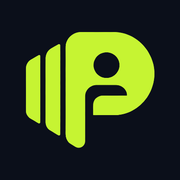
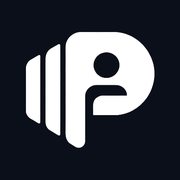
checkpoint before testing_agent_full_stack_o55
Emergent-Commit-Key: 985c851e07aa901eabe8695fdc98941710b8026b3d023b5245e6e1ddddd95b8a

Changed region(s): [[0.1389, 0.1667, 0.8611, 0.8333]]

diff --git a/frontend/src/pages/Landing.jsx b/frontend/src/pages/Landing.jsx
@@ -10,7 +10,7 @@ import {
 
 
 const features = [
-  { icon: Database, title: "Unified Client Memory", desc: "Consolidate notes, CRM records, past meetings and open tasks into one living profile per client." },
+  { icon: Database, title: "Unified Client Memory", desc: "Consolidate notes, emails, past calls and open tasks into one living profile per client." },
   { icon: ShieldCheck, title: "Source-Verified Intelligence", desc: "Every factual claim links to its source. Facts, inferences and missing info are clearly separated." },
   { icon: ListChecks, title: "Forgotten-Commitment Detector", desc: "Surfaces promises you made, overdue tasks and decisions still waiting — with their origin." },
   { icon: Target, title: "Adaptive Talking Points", desc: "Three prioritised talking points and three questions, grounded in real context — never filler." },
@@ -28,9 +28,9 @@ const tabContent = {
 };
 
 const faqs = [
-  { q: "How does PreMeet avoid making things up?", a: "Every factual claim must reference a real source — a note, CRM field, calendar event or recorded commitment. When information isn't available, the brief says so explicitly instead of inventing it." },
-  { q: "Do I have to replace my CRM or calendar?", a: "No. PreMeet brings context together from the tools you already use. Calendar and CRM connections use the official OAuth flow and request only read permissions." },
-  { q: "Is my client data private?", a: "Your data is isolated per account. We never use your meeting notes or CRM records to train models, and you control retention and deletion." },
+  { q: "How does PreMeet avoid making things up?", a: "Every factual claim must reference a real source — a note, email, calendar event or recorded commitment. When information isn't available, the brief says so explicitly instead of inventing it." },
+  { q: "Do I have to replace my calendar or inbox?", a: "No. PreMeet brings context together from the tools you already use. Google Calendar and Gmail connect through Google's official sign-in and request only read permissions." },
+  { q: "Is my client data private?", a: "Your data is isolated per account. We never use your meeting notes or emails to train models, and you control retention and deletion." },
   { q: "What happens when I hit my monthly brief limit?", a: "We stop and show a clear upgrade prompt. You're never silently charged or pushed over your plan's allowance." },
 ];
 
@@ -85,13 +85,13 @@ export default function Landing() {
               <span className="h-1.5 w-1.5 rounded-full bg-signal bc-blink" /> Prep · Call · Notes
             </span>
             <h1 className="bc-rise bc-d1 mt-6 text-5xl sm:text-6xl lg:text-7xl font-bold leading-[0.98]">
-              Know the room<br />before you <span className="relative inline-block"><span className="relative z-10">walk in.</span><span className="absolute left-0 right-0 bottom-1 h-4 bg-signal -z-0" /></span>
+              Know the room<br />before you <span className="relative inline-block"><span className="relative z-10">walk in.</span><span className="absolute left-0 right-0 bottom-1 h-1.5 bg-ink -z-0" /></span>
             </h1>
             <p className="bc-rise bc-d2 mt-6 text-lg text-muted-foreground leading-relaxed max-w-xl">
               PreMeet reads your calendar, inbox and notes, hands you a one-page brief with sources, runs the call, and writes up what was decided.
             </p>
             <div className="bc-rise bc-d3 mt-8 flex flex-col sm:flex-row gap-3">
-              <Link to="/register" data-testid="hero-cta-button" className="h-12 px-6 rounded-lg bg-ink text-white font-semibold flex items-center justify-center gap-2 shadow-[4px_4px_0_0_#4F46E5] hover:shadow-[6px_6px_0_0_#4F46E5] hover:-translate-x-0.5 hover:-translate-y-0.5 transition-[transform,box-shadow] active:translate-x-0 active:translate-y-0 active:shadow-none">
+              <Link to="/register" data-testid="hero-cta-button" className="h-12 px-6 rounded-lg bg-ink text-white font-semibold flex items-center justify-center gap-2 shadow-[4px_4px_0_0_#0B0F1A] hover:shadow-[6px_6px_0_0_#0B0F1A] hover:-translate-x-0.5 hover:-translate-y-0.5 transition-[transform,box-shadow] active:translate-x-0 active:translate-y-0 active:shadow-none">
                 Start free <ArrowRight className="h-4 w-4" />
               </Link>
               <a href="#demo" className="h-12 px-6 rounded-lg border-2 border-ink font-semibold flex items-center justify-center hover:bg-ink hover:text-white transition-colors">
@@ -185,19 +185,19 @@ export default function Landing() {
           <div>
             <span className="font-mono-label text-xs text-signal">The one-page brief</span>
             <h2 className="mt-3 text-3xl sm:text-4xl font-bold tracking-tight">Everything you need, nothing you don't</h2>
-            <p className="mt-4 text-slate-300 text-lg leading-relaxed">
+            <p className="mt-4 text-white/70 text-lg leading-relaxed">
               Scannable sections, prioritised talking points, and a citation footer so you can inspect the source of every claim.
             </p>
             <div className="mt-6 flex flex-wrap gap-2">
               {tabs.map((t) => (
                 <button key={t} onClick={() => setActiveTab(t)} data-testid={`demo-tab-${t.replace(/\s+/g, "-").toLowerCase()}`}
-                  className={`px-4 py-2 rounded-lg text-sm font-medium transition-all ${activeTab === t ? "bg-signal text-ink" : "bg-white/5 text-slate-300 hover:bg-white/10"}`}>
+                  className={`px-4 py-2 rounded-lg text-sm font-medium transition-all ${activeTab === t ? "bg-signal text-ink" : "bg-white/5 text-white/70 hover:bg-white/10"}`}>
                   {t}
                 </button>
               ))}
             </div>
           </div>
-          <div className="relative rounded-2xl bg-white text-foreground p-6 shadow-[8px_8px_0_0_#4F46E5]">
+          <div className="relative rounded-2xl bg-white text-foreground p-6 shadow-[8px_8px_0_0_#0B0F1A]">
             <div className="flex items-center justify-between border-b border-border pb-4">
               <div>
                 <p className="font-mono-label text-[10px] text-muted-foreground">Project review · Today 2:00 PM</p>
@@ -223,9 +223,9 @@ export default function Landing() {
       <section className="max-w-6xl mx-auto px-5 py-20 text-center">
         <span className="font-mono-label text-xs text-primary">Brings your stack together</span>
         <h2 className="mt-3 text-3xl font-bold tracking-tight">Works with the tools you already use</h2>
-        <p className="mt-4 text-muted-foreground max-w-xl mx-auto">Connect calendars and CRMs through official, read-only authorization. No need to replace anything.</p>
+        <p className="mt-4 text-muted-foreground max-w-xl mx-auto">Connect Google Calendar and Gmail through official, read-only authorization. No need to replace anything.</p>
         <div className="mt-10 flex flex-wrap justify-center gap-3">
-          {["Google Calendar", "Gmail", "Built-in video calls", "Manual notes & uploads", "Outlook (soon)", "HubSpot (soon)", "Salesforce (soon)"].map((n) => (
+          {["Google Calendar", "Gmail", "Built-in video calls", "Manual notes & uploads"].map((n) => (
             <span key={n} className="px-4 py-2.5 rounded-lg border border-border bg-card text-sm font-medium bc-lift">{n}</span>
           ))}
         </div>
@@ -242,7 +242,7 @@ export default function Landing() {
           <div className="mt-12 grid md:grid-cols-3 gap-5 max-w-4xl mx-auto">
             {plans.map((p) => (
               <div key={p.id} data-testid={`pricing-card-${p.id}`}
-                className={`p-6 rounded-2xl border-2 bg-card flex flex-col ${p.id === "entry" ? "border-ink shadow-[6px_6px_0_0_#4F46E5]" : "border-border bc-lift"}`}>
+                className={`p-6 rounded-2xl border-2 bg-card flex flex-col ${p.id === "entry" ? "border-ink shadow-[6px_6px_0_0_#0B0F1A]" : "border-border bc-lift"}`}>
                 <div className="flex items-center justify-between min-h-6">
                   <h3 className="font-bold text-lg">{p.name}</h3>
                   {p.id === "entry" && <span className="px-2.5 py-1 rounded-full bg-primary text-white text-xs font-semibold">Most popular</span>}
@@ -304,7 +304,7 @@ export default function Landing() {
           <div className="bc-grid-bg absolute inset-0 opacity-[0.06]" />
           <Quote className="h-8 w-8 text-signal mx-auto" />
           <h2 className="relative mt-4 text-3xl sm:text-4xl font-extrabold tracking-tight">Never walk in unprepared again.</h2>
-          <p className="relative mt-4 text-slate-300 max-w-xl mx-auto">Start free and generate your first source-verified brief in minutes.</p>
+          <p className="relative mt-4 text-white/70 max-w-xl mx-auto">Start free and generate your first source-verified brief in minutes.</p>
           <Link to="/register" data-testid="footer-cta-button" className="relative mt-8 inline-flex h-12 px-8 rounded-lg bg-signal text-ink font-bold items-center gap-2 hover:bg-primary/90 transition-all active:scale-[0.98]">
             Start free <ArrowRight className="h-4 w-4" />
           </Link>

diff --git a/frontend/src/index.css b/frontend/src/index.css
@@ -11,7 +11,7 @@
   --font-mono: 'JetBrains Mono', 'IBM Plex Mono', monospace;
   --font-display: 'Space Grotesk', 'Plus Jakarta Sans', sans-serif;
   --color-ink: #0B0F1A;
-  --color-signal: #C6F432;
+  --color-signal: #FFFFFF;
 
   --radius-lg: var(--radius);
   --radius-md: calc(var(--radius) - 2px);
@@ -80,20 +80,20 @@
     --card-foreground: 224 45% 7%;
     --popover: 0 0% 100%;
     --popover-foreground: 224 45% 7%;
-    --primary: 243 80% 58%;
+    --primary: 224 45% 7%;
     --primary-foreground: 0 0% 100%;
     --secondary: 40 12% 93%;
     --secondary-foreground: 224 45% 7%;
     --muted: 40 12% 93%;
     --muted-foreground: 222 12% 40%;
-    --accent: 243 90% 96%;
-    --accent-foreground: 243 70% 45%;
+    --accent: 40 10% 92%;
+    --accent-foreground: 224 45% 7%;
     --destructive: 0 78% 52%;
     --destructive-foreground: 0 0% 100%;
     --border: 40 8% 86%;
     --input: 40 8% 86%;
-    --ring: 243 80% 58%;
-    --chart-1: 243 80% 58%;
+    --ring: 224 45% 7%;
+    --chart-1: 224 45% 7%;
     --chart-2: 160 84% 39%;
     --chart-3: 32 95% 44%;
     --chart-4: 199 89% 48%;
@@ -116,7 +116,7 @@
   [data-debug-wrapper="true"] { display: contents !important; }
 }
 
-::selection { background: #C6F432; color: #0B0F1A; }
+::selection { background: #0B0F1A; color: #FFFFFF; }
 
 @layer base {
   h1, h2, h3, .font-display { font-family: var(--font-display); letter-spacing: -0.02em; }
@@ -126,6 +126,8 @@
 @keyframes bc-marquee { from { transform: translateX(0); } to { transform: translateX(-50%); } }
 @keyframes bc-blink { 0%, 100% { opacity: 1; } 50% { opacity: 0.25; } }
 @keyframes bc-type { from { width: 0; } to { width: 100%; } }
+.bc-fade { animation: bc-fade 0.35s ease-out both; }
+@keyframes bc-fade { from { opacity: 0; } to { opacity: 1; } }
 .bc-rise { animation: bc-rise 0.55s cubic-bezier(0.2, 0.8, 0.2, 1) both; }
 .bc-d1 { animation-delay: 80ms; } .bc-d2 { animation-delay: 160ms; } .bc-d3 { animation-delay: 240ms; }
 .bc-d4 { animation-delay: 320ms; } .bc-d5 { animation-delay: 400ms; } .bc-d6 { animation-delay: 480ms; }

diff --git a/frontend/src/pages/Integrations.jsx b/frontend/src/pages/Integrations.jsx
@@ -13,8 +13,7 @@ const RESULT = {
 };
 
 function IntegrationCard({ r, busy, onConnect, onDisconnect, onSync }) {
-  const live = !r.requires_oauth || GOOGLE.includes(r.provider);
-  const status = r.status === "connected" ? "connected" : live ? "not_connected" : "setup_required";
+  const status = r.status === "connected" ? "connected" : "not_connected";
   const btn = "h-9 px-4 rounded-lg text-sm font-semibold flex items-center gap-2 transition-colors disabled:opacity-60";
   return (
     <Card className="p-5 bc-lift" data-testid={`integration-${r.provider}`}>
@@ -22,7 +21,7 @@ function IntegrationCard({ r, busy, onConnect, onDisconnect, onSync }) {
         <div>
           <p className="font-display font-bold">{r.name}</p>
           <p className="text-xs text-muted-foreground mt-0.5">
-            {r.account ? r.account : live ? (r.requires_oauth ? "Google sign-in · read-only" : "Available now") : "Coming soon"}
+            {r.account ? r.account : r.requires_oauth ? "Google sign-in · read-only" : "Available now"}
           </p>
           {r.last_synced_at && <p className="text-xs text-muted-foreground mt-0.5" data-testid={`last-synced-${r.provider}`}>Synced {formatDateTime(r.last_synced_at)}</p>}
           {r.error && <p className="text-xs text-destructive mt-1">{r.error}</p>}
@@ -41,12 +40,10 @@ function IntegrationCard({ r, busy, onConnect, onDisconnect, onSync }) {
               Disconnect
             </button>
           </>
-        ) : live ? (
+        ) : (
           <button onClick={onConnect} disabled={busy} data-testid={`connect-${r.provider}`} className={`${btn} bg-primary text-primary-foreground hover:bg-primary/90`}>
             {busy && <Loader2 className="h-4 w-4 animate-spin" />} Connect
           </button>
-        ) : (
-          <span className="text-xs text-muted-foreground">Needs a developer app from this provider. Ask us to switch it on.</span>
         )}
       </div>
     </Card>

diff --git a/frontend/src/pages/Meetings.jsx b/frontend/src/pages/Meetings.jsx
@@ -1,3 +1,4 @@
+import { createPortal } from "react-dom";
 import { useEffect, useState } from "react";
 import { Link } from "react-router-dom";
 import { api, formatApiErrorDetail } from "../lib/api";
@@ -80,13 +81,13 @@ export default function Meetings() {
         </div>
       )}
 
-      {showModal && (
+      {showModal && createPortal(
         <div className="fixed inset-0 z-50 flex items-center justify-center p-4" data-testid="add-meeting-modal">
           <div className="fixed inset-0 bg-black/40" onClick={() => setShowModal(false)} />
-          <Card className="relative w-full max-w-lg p-6 max-h-[90vh] overflow-y-auto">
+          <Card className="relative w-full max-w-lg p-6 max-h-[90vh] overflow-y-auto overscroll-contain">
             <div className="flex items-center justify-between mb-5">
               <h2 className="font-bold text-lg">Add a meeting</h2>
-              <button onClick={() => setShowModal(false)} className="p-1 text-muted-foreground hover:text-foreground"><X className="h-5 w-5" /></button>
+              <button onClick={() => setShowModal(false)} data-testid="add-meeting-close" className="p-1 text-muted-foreground hover:text-foreground"><X className="h-5 w-5" /></button>
             </div>
             <form onSubmit={create} className="space-y-4">
               <Field label="Title">
@@ -127,7 +128,8 @@ export default function Meetings() {
               </button>
             </form>
           </Card>
-        </div>
+        </div>,
+        document.body,
       )}
       <style>{`.input{margin-top:.375rem;width:100%;height:2.75rem;padding:0 .875rem;border-radius:.5rem;border:1px solid hsl(var(--input));background:hsl(var(--card));font-size:.875rem}.input:focus{outline:none;border-color:hsl(var(--primary));box-shadow:0 0 0 2px hsl(var(--ring)/.3)}`}</style>
     </div>

diff --git a/frontend/src/pages/Onboarding.jsx b/frontend/src/pages/Onboarding.jsx
@@ -41,10 +41,10 @@ export default function Onboarding() {
     setLoading(true);
     try {
       await api.post("/onboarding", {
-        profession, tone, detail_level: detail, default_objective: objective, load_demo_data: true,
+        profession, tone, detail_level: detail, default_objective: objective, load_demo_data: false,
       });
       await refreshUser();
-      toast.success("You're all set! We loaded demo data so you can explore.");
+      toast.success("You're all set. Add your first meeting or import your calendar.");
       navigate("/app");
     } catch (err) {
       toast.error(formatApiErrorDetail(err.response?.data?.detail));
@@ -133,10 +133,10 @@ export default function Onboarding() {
             <div data-testid="onboarding-step-finish">
               <span className="font-mono-label text-xs text-primary">Step 3 of 3</span>
               <h1 className="mt-2 text-3xl font-bold tracking-tight">Ready to generate your first brief</h1>
-              <p className="mt-2 text-muted-foreground">We'll load a demo workspace with sample meetings, notes and commitments so you can see a real brief immediately.</p>
+              <p className="mt-2 text-muted-foreground">Your workspace starts empty. Add a meeting yourself or connect Google Calendar to import your real schedule.</p>
               <div className="mt-8 rounded-xl border border-border bg-card p-6 space-y-4">
                 {[
-                  "Connect Google Calendar & your CRM from the Integrations page",
+                  "Connect Google Calendar and Gmail from the Integrations page",
                   "Open an upcoming meeting and click Generate Brief",
                   "Inspect sources, edit sections, and export to PDF",
                 ].map((t, i) => (

diff --git a/frontend/src/pages/ClientMemory.jsx b/frontend/src/pages/ClientMemory.jsx
@@ -1,3 +1,4 @@
+import { createPortal } from "react-dom";
 import { useEffect, useState, useMemo } from "react";
 import { api, formatApiErrorDetail } from "../lib/api";
 import { Card, PageHeader } from "../components/ui-helpers";
@@ -219,14 +220,15 @@ function Stat({ label, value }) {
   return <div className="p-3 rounded-lg bg-secondary/40 text-center"><p className="text-2xl font-extrabold">{value}</p><p className="text-xs text-muted-foreground">{label}</p></div>;
 }
 function Modal({ title, onClose, children }) {
-  return (
-    <div className="fixed inset-0 z-50 flex items-center justify-center p-4">
+  return createPortal(
+    <div className="fixed inset-0 z-50 flex items-center justify-center p-4" data-testid="client-memory-modal">
       <div className="fixed inset-0 bg-black/40" onClick={onClose} />
-      <Card className="relative w-full max-w-lg p-6 max-h-[90vh] overflow-y-auto">
-        <div className="flex items-center justify-between mb-5"><h2 className="font-bold text-lg">{title}</h2><button onClick={onClose} className="p-1 text-muted-foreground hover:text-foreground"><X className="h-5 w-5" /></button></div>
+      <Card className="relative w-full max-w-lg p-6 max-h-[90vh] overflow-y-auto overscroll-contain">
+        <div className="flex items-center justify-between mb-5"><h2 className="font-bold text-lg">{title}</h2><button onClick={onClose} data-testid="client-memory-modal-close" className="p-1 text-muted-foreground hover:text-foreground"><X className="h-5 w-5" /></button></div>
         {children}
       </Card>
-    </div>
+    </div>,
+    document.body,
   );
 }
 function Inp({ label, value, onChange, required, testid }) {

diff --git a/frontend/src/components/layout/DashboardLayout.jsx b/frontend/src/components/layout/DashboardLayout.jsx
@@ -39,7 +39,7 @@ export default function DashboardLayout() {
             onClick={() => setOpen(false)}
             className={({ isActive }) =>
               `flex items-center gap-3 px-3 py-2.5 rounded-lg text-sm font-medium transition-all duration-200 ${
-                isActive ? "bg-white text-ink shadow-[3px_3px_0_0_#C6F432]" : "text-white/60 hover:bg-white/10 hover:text-white"
+                isActive ? "bg-white text-ink shadow-none" : "text-white/60 hover:bg-white/10 hover:text-white"
               }`
             }
           >
@@ -54,7 +54,7 @@ export default function DashboardLayout() {
             onClick={() => setOpen(false)}
             className={({ isActive }) =>
               `flex items-center gap-3 px-3 py-2.5 rounded-lg text-sm font-medium transition-all duration-200 ${
-                isActive ? "bg-white text-ink shadow-[3px_3px_0_0_#C6F432]" : "text-white/60 hover:bg-white/10 hover:text-white"
+                isActive ? "bg-white text-ink shadow-none" : "text-white/60 hover:bg-white/10 hover:text-white"
               }`
             }
           >
@@ -107,7 +107,7 @@ export default function DashboardLayout() {
           </button>
         </header>
         <main className="flex-1 p-5 sm:p-8 max-w-7xl w-full mx-auto">
-          <div key={location.pathname} className="bc-rise"><Outlet /></div>
+          <div key={location.pathname} className="bc-fade"><Outlet /></div>
         </main>
       </div>
     </div>

diff --git a/frontend/src/pages/Login.jsx b/frontend/src/pages/Login.jsx
@@ -36,10 +36,10 @@ export default function Login() {
           <h2 className="text-4xl font-extrabold tracking-tight leading-tight">
             Walk into every meeting prepared.
           </h2>
-          <p className="text-slate-300 text-lg leading-relaxed max-w-md">
-            One-page briefs built from your notes, CRM and calendar — with every fact linked to its source.
+          <p className="text-white/70 text-lg leading-relaxed max-w-md">
+            One-page briefs built from your notes, inbox and calendar — with every fact linked to its source.
           </p>
-          <ul className="space-y-3 text-slate-300">
+          <ul className="space-y-3 text-white/70">
             {["Source-verified intelligence", "Forgotten-commitment detector", "Profession-specific templates"].map((t) => (
               <li key={t} className="flex items-center gap-3">
                 <CheckCircle2 className="h-5 w-5 text-primary" /> {t}
@@ -94,9 +94,6 @@ export default function Login() {
               Create one
             </Link>
           </p>
-          <div className="mt-6 p-3 rounded-lg bg-secondary text-xs text-muted-foreground">
-            <span className="font-mono-label text-[10px]">Demo admin</span> — admin@briefcraft.ai / Admin@12345
-          </div>
         </div>
       </div>
     </div>

diff --git a/frontend/src/pages/Register.jsx b/frontend/src/pages/Register.jsx
@@ -37,10 +37,10 @@ export default function Register() {
           <h2 className="text-4xl font-extrabold tracking-tight leading-tight">
             Spend less time searching.<br />More time in conversation.
           </h2>
-          <p className="text-slate-300 text-lg leading-relaxed max-w-md">
+          <p className="text-white/70 text-lg leading-relaxed max-w-md">
             Start free with 3 briefs. No credit card. Turn scattered client context into a trustworthy one-page brief.
           </p>
-          <ul className="space-y-3 text-slate-300">
+          <ul className="space-y-3 text-white/70">
             {["Free starter plan", "Set up in under 2 minutes", "Your data stays isolated and private"].map((t) => (
               <li key={t} className="flex items-center gap-3">
                 <CheckCircle2 className="h-5 w-5 text-primary" /> {t}

diff --git a/backend/seed.py b/backend/seed.py
@@ -30,9 +30,6 @@ DEFAULT_PLANS = [
 
 INTEGRATION_CATALOG = [
     {"provider": "google_calendar", "name": "Google Calendar", "category": "calendar", "requires_oauth": True},
-    {"provider": "outlook_calendar", "name": "Outlook Calendar", "category": "calendar", "requires_oauth": True},
-    {"provider": "hubspot", "name": "HubSpot", "category": "crm", "requires_oauth": True},
-    {"provider": "salesforce", "name": "Salesforce", "category": "crm", "requires_oauth": True},
     {"provider": "manual_notes", "name": "Manual Notes & Uploads", "category": "notes", "requires_oauth": False},
     {"provider": "gmail", "name": "Gmail", "category": "email", "requires_oauth": True},
 ]
@@ -99,6 +96,20 @@ async def ensure_preferences(user_id: str, profession: str = "consultant"):
             "auto_generate": False,
             "updated_at": now_iso(),
         })
+
+
+UNAVAILABLE_PROVIDERS = ["outlook_calendar", "hubspot", "salesforce"]
+
+
+async def purge_demo_and_unavailable():
+    """Idempotent cleanup: remove sample data and integrations that aren't set up."""
+    demo_ids = [m["id"] for m in await db.meetings.find({"is_demo": True}, {"id": 1}).to_list(100000)]
+    if demo_ids:
+        await db.briefs.delete_many({"meeting_id": {"$in": demo_ids}})
+        await db.meeting_notes.delete_many({"meeting_id": {"$in": demo_ids}})
+    for coll in ("meetings", "contacts", "companies", "notes", "commitments"):
+        await db[coll].delete_many({"is_demo": True})
+    await db.integrations.delete_many({"provider": {"$in": UNAVAILABLE_PROVIDERS}})
 
 
 async def seed_demo_data(user_id: str):

diff --git a/backend/server.py b/backend/server.py
@@ -243,8 +243,6 @@ async def complete_onboarding(payload: OnboardingInput, user=Depends(authmod.get
                   "default_objective": payload.default_objective, "updated_at": now_iso()}},
         upsert=True,
     )
-    if payload.load_demo_data:
-        await seed.seed_demo_data(uid)
     await audit(uid, "onboarding_complete", payload.profession)
     return {"ok": True}
 
@@ -873,6 +871,7 @@ async def startup():
     await db.briefs.create_index([("user_id", 1), ("generated_at", -1)])
     await db.usage_records.create_index([("user_id", 1), ("period", 1)], unique=True)
     await seed.ensure_plans()
+    await seed.purge_demo_and_unavailable()
     # Seed admin
     admin_email = os.environ["ADMIN_EMAIL"].lower()
     admin_password = os.environ["ADMIN_PASSWORD"]
